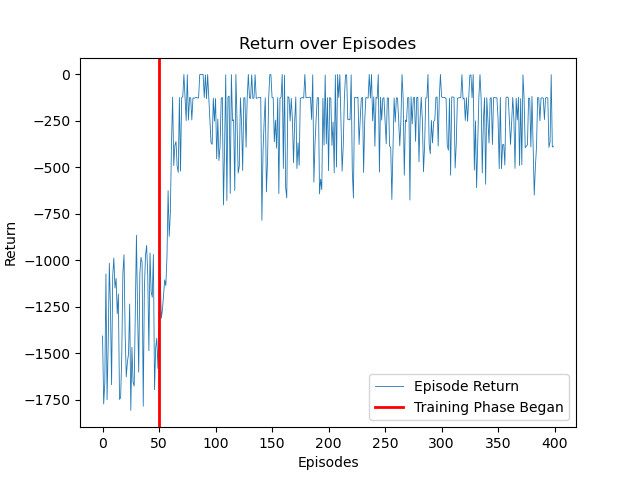
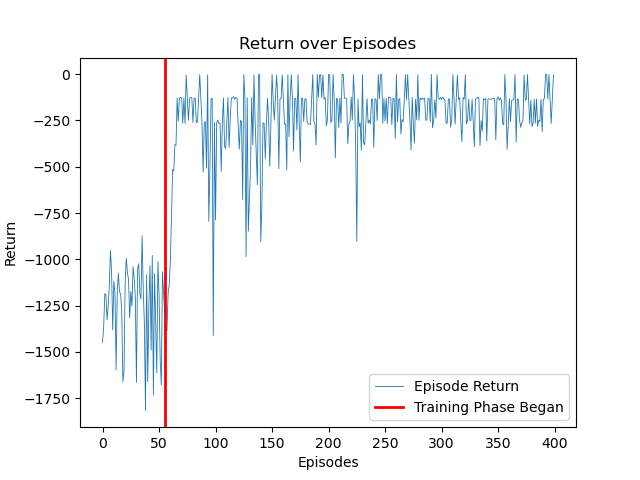
reward norm checked & readme

diff --git a/Soft Actor Critic (SAC)/SAC_Networks.py b/Soft Actor Critic (SAC)/SAC_Networks.py
@@ -183,7 +183,7 @@ class SAC(object):
         self.recent_reward.append(reward)
 
         if self.config.COUNTER % self.reward_norm_steps == 0: # updates the reward mean and standard deviation every n steps
-            self.reward_mean = np.min(self.reward_memory)
+            self.reward_mean = np.mean(self.reward_memory)
             
             print("rewards normalization updated; mean of the last 1000 rewards:{}".format(np.mean(self.recent_reward)))
             print("rewards normalization updated; mean of the last 20000 rewards:{}".format(np.mean(self.reward_memory)))

diff --git a/Soft Actor Critic (SAC)/SAC_Main.py b/Soft Actor Critic (SAC)/SAC_Main.py
@@ -52,7 +52,7 @@ if __name__ == "__main__":
             sac.remember(state, action, reward, next_state)
 
             # if there are enough instances in the replay experience queue, start the training
-            if config.COUNTER > config.MEMORY_CAPACITY:
+            if config.COUNTER > config.MEMORY_CAPACITY*1.1:
                 if training_started == None:
                     training_started = episode
                 sac.train()

diff --git a/README.md b/README.md
@@ -12,15 +12,24 @@ Note that DQN was implemented using Keras while DDPG and SAC were implemented at
 
 # Deep Q-Learning
 ## Deep Q-Networks (DQN)
-DQN is a reinforcement learning algorithm that combines Q-learning and deep neural networks. DQN approximates the action-value function in the Q-learning framework with a neural network. It utilizes off-policy learning by using Experience Replay from which random samples (could be prioritized) are drawn for training. Experience Replay usually contains a specified number of recent (state, action, next state, reward). Since DQN learns the action-value function, it is a value-based approach. 
+DQN is a reinforcement learning algorithm that combines Q-learning and deep neural networks. DQN approximates the action-value function in the Q-learning framework with a neural network. It utilizes off-policy learning by using Experience Replay from which random samples (could be prioritized) are drawn for training. Experience Replay usually contains a specified number of recent (state, action, next state, reward). Since DQN learns the action-value function, it is a value-based approach. Once trained, the agent can just take the action incurs the highest action-value given a state. 
 
 # Policy Gradients + Q-Learning (Actor - Critic)
-While Policy Gradient algorithms are policy-based since they approximate the policy function direcly, DDPG and SAC try to approximate both the action-value and policy functions, and, thus, called Actor-Critic. 
+While Policy Gradient algorithms are policy-based since they approximate the policy function direcly, DDPG and SAC try to approximate both the action-value and policy functions, and, thus, called Actor-Critic. The Actor represents the policy, and the Critic represents the action-value function.  
 
 ## Deep Deterministic Policy Gradient (DDPG)
+One of the main purposes of DDPG is to incorporate continous action space with Deep Q-Learning. 
+Since in DQN, the agent takes the action that incurs the highest action-value, calculating all the possible action-values can become very tricky (or even impossible) especially if the action space is continous and high dimensional. 
+
 
 ## Soft Actor Critic (SAC)
 
 
+
+# References:
+1. DQN Paper
+2. DDPG Paper
+3. SAC Paper
+4. SAC + PER
 
 
